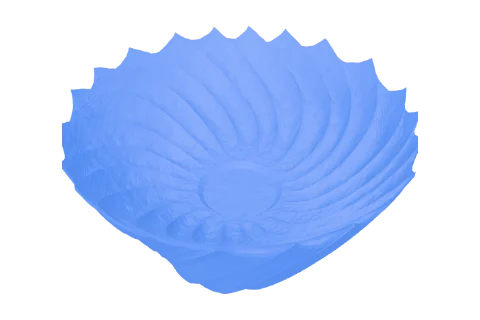
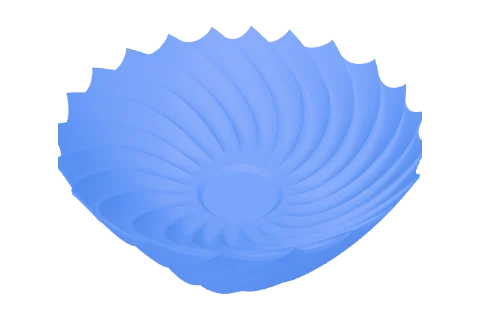
Revert "Ribbed dish: bumpy hand-worked surface, ribs that wander and vary"
This reverts commit 75d2445029df3fa1bae8ea616b1806c760d0f8a5.

diff --git a/src/dish.ts b/src/dish.ts
@@ -12,7 +12,6 @@
  * dish gets a flat foot with a 45° underside to the rim, a steep one becomes an even shell.
  */
 import type { ManifoldToplevel, Manifold, CrossSection, Vec2 } from 'manifold-3d';
-import { createNoise2D } from 'simplex-noise';
 
 export interface DishParams {
   /** Diameter across the rib points (mm). */
@@ -36,10 +35,6 @@ export interface DishParams {
   wall: number;
   floor: number;
   seed: number;
-  /** Bumpy hand-worked surface: bump height (mm). */
-  bumps: number;
-  /** Bumps on the middle floor too (not under a word). */
-  bumpWell: boolean;
   /** Points per rib around (sharpness / file size). */
   perRib?: number;
 }
@@ -93,13 +88,6 @@ export function buildDish(W: ManifoldToplevel, keep: <T extends { delete(): void
   const wob = Math.max(0, Math.min(1, dp.wobble));
   const swirl = (dp.swirl * Math.PI) / 180;
   const step = (2 * Math.PI) / n;
-  // ribs wander along their length, and are not all equally wide
-  const wanderA = wob * Math.min(0.45 * step, 0.12);
-  const kSp = Math.max(2, Math.round(n / 3));
-  const spaceA = (wob * 0.18) / kSp;
-  // bumpy surface (like hammered or hand-pressed clay): two sizes of smooth bumps + dents
-  const nA = createNoise2D(rng((dp.seed || 1) + 11)), nB = createNoise2D(rng((dp.seed || 1) + 23)), nC = createNoise2D(rng((dp.seed || 1) + 37));
-  const bump = (x: number, y: number) => dp.bumps * (0.55 * nA(x / 9, y / 9) + 0.3 * nB(x / 3.6, y / 3.6) + 0.15 * nC(x / 1.6, y / 1.6));
 
   // top surface, row by row (i) and column by column (j)
   const top = new Float64Array(NR * NT * 3);
@@ -113,8 +101,7 @@ export function buildDish(W: ManifoldToplevel, keep: <T extends { delete(): void
       const rho = rows[i];
       const s = rho <= rho1 ? 0 : (rho - rho1) / (1 - rho1); // 0 at the start of the ribs, 1 at the rim
       // columns turn with the swirl and wander a little (not enough to cross each other)
-      // (wander turns by at most ~0.46 per radian and uneven spacing by ~0.18, so columns never cross)
-      const th = t0 + swirl * s * s + wanderA * s * (0.6 * Math.sin(3 * t0 + 2.2 * Math.PI * s + ph[0]) + 0.4 * Math.sin(5 * t0 - 1.6 * Math.PI * s + ph[1])) + spaceA * Math.sin(kSp * t0 + ph[4]);
+      const th = t0 + swirl * s * s + wob * step * 0.3 * s * (0.6 * Math.sin(3 * t0 + 2.2 * Math.PI * s + ph[0]) + 0.4 * Math.sin(5 * t0 - 1.6 * Math.PI * s + ph[1]));
       const r = rho * R0 * (1 - dp.scallop * v * s * s);
       let z: number;
       if (rho <= w) z = floorZ;
@@ -122,19 +109,12 @@ export function buildDish(W: ManifoldToplevel, keep: <T extends { delete(): void
       else {
         z = floorZ + wd + (H - floorZ - wd) * Math.pow(s, 1.6);
         // hollows fade in from the well, deepest at the rim; never below the well step
-        const along = 1 + 0.35 * wob * nA(t0 * 2.5 + 40, s * 3);
-        const d = dp.depth * dMul * along * smooth(s / 0.35) * (0.45 + 0.55 * s);
+        const d = dp.depth * dMul * smooth(s / 0.35) * (0.45 + 0.55 * s);
         z = Math.max(floorZ + wd * 0.5, z - d * v);
       }
       const k = (i * NT + j) * 3;
-      const x = r * Math.cos(th), y = r * Math.sin(th);
-      // bumps everywhere on the bowl (a little less on the crests so they stay crisp), fading in from the well
-      if (dp.bumps > 0) {
-        const f = rho <= w ? (dp.bumpWell ? 0.6 * smooth((rho / w - 0.15) / 0.3) : 0) : rho <= rho1 ? (dp.bumpWell ? 0.6 : 0.3) : 0.45 + 0.55 * Math.max(0.35, v);
-        z += bump(x, y) * f;
-      }
-      top[k] = x;
-      top[k + 1] = y;
+      top[k] = r * Math.cos(th);
+      top[k + 1] = r * Math.sin(th);
       top[k + 2] = z;
     }
   }

diff --git a/src/geometry.ts b/src/geometry.ts
@@ -42,8 +42,6 @@ export interface Params extends LampParams, MoldParams, TileParams, TerraceParam
   dsCentre?: 'veins' | 'raised' | 'cut' | 'plain';
   dsRaise?: number;
   dsSeed?: number;
-  /** Ribbed dish: bumpy hand-worked surface, bump height (mm). */
-  dsBumps?: number;
   /** Ribbon sculpture shape. */
   scShape?: 'infinity' | 'trefoil' | 'lissajous' | 'twist';
   /** Ribbon sculpture: width across (mm). */
@@ -1768,7 +1766,7 @@ export class Builder {
       size, height: clampN(p.dsHeight ?? 32, 8, 150), ribs: clampN(p.dsRibs ?? 28, 8, 64), depth: clampN(p.dsDepth ?? 6, 0, 30),
       well: clampN(p.dsWell ?? 30, 10, 60) / 100, wellDepth: clampN(p.dsWellDepth ?? 3, 0, 20), scallop: clampN(p.dsScallop ?? 4, 0, 15) / 100,
       swirl: clampN(p.dsSwirl ?? 0, -120, 120), wobble: clampN(p.dsWobble ?? 50, 0, 100) / 100, wall: clampN(p.dsWall ?? 2.4, 1.2, 8),
-      floor: clampN(p.dsFloor ?? 3, 1.6, 10), seed: p.dsSeed ?? 1, bumps: clampN(p.dsBumps ?? 0.9, 0, 3), bumpWell: (p.dsCentre ?? 'veins') === 'veins' || p.dsCentre === 'plain', perRib: p.lampFine ? 24 : 16,
+      floor: clampN(p.dsFloor ?? 3, 1.6, 10), seed: p.dsSeed ?? 1, perRib: p.lampFine ? 24 : 16,
     }, warnings);
     let body = d.m;
     const centre = p.dsCentre ?? 'veins';
@@ -1776,9 +1774,7 @@ export class Builder {
     const parts: WorkPart[] = [];
     if (centre === 'veins') {
       const v = veins(W, (o) => this.k(o), d.wellR * 0.97, p.dsSeed ?? 1);
-      // sink the veins into the (bumpy) floor so they never hang over a dent
-      const sink = Math.min(d.floorZ - 0.2, clampN(p.dsBumps ?? 0.9, 0, 3) + OVERLAP);
-      body = this.k(body.add(this.extrude(v, raise + sink, d.floorZ - sink)));
+      body = this.k(body.add(this.extrude(v, raise + OVERLAP, d.floorZ - OVERLAP)));
     } else if ((centre === 'raised' || centre === 'cut') && !cs.isEmpty()) {
       // the word, centred and scaled to fit inside the well
       const b = cs.bounds();

diff --git a/scripts/dish-check.ts b/scripts/dish-check.ts
@@ -14,7 +14,7 @@ const cases = process.argv[2] ? [JSON.parse(process.argv[2])] : [{}, { dsHeight:
 let bad = 0;
 for (const c of cases) {
   const r = b.build(font, { ...DEFAULTS, style: 'dish', text: 'KEYS', ...c } as any);
-  let worst = 0, n = 0, area = 0;
+  let worst = 0, n = 0;
   for (const p of r.parts) {
     const P = p.positions, I = p.indices;
     for (let t = 0; t < I.length; t += 3) {
@@ -26,12 +26,11 @@ for (const c of cases) {
       const zMin = Math.min(P[a + 2], P[q + 2], P[w + 2]);
       if (zMin < 0.05) continue;
       const cz = nz / L; // −1 = facing straight down
-      if (cz < -Math.SQRT1_2 - 0.02) { n++; area += L / 2; worst = Math.min(worst, cz); if (process.env.WHERE) console.log(P[a], P[a + 1], P[a + 2], P[q + 2], P[w + 2], L / 2); }
+      if (cz < -Math.SQRT1_2 - 0.02) { n++; worst = Math.min(worst, cz); if (process.env.WHERE) console.log(P[a], P[a + 1], P[a + 2], P[q + 2], P[w + 2], L / 2); }
     }
   }
-  // a few specks (under 1 mm² in all) print fine
-  const ok = r.parts.length > 0 && area < 1;
+  const ok = r.parts.length > 0 && n === 0;
   if (!ok) bad++;
-  console.log(ok ? 'ok ' : 'BAD', JSON.stringify(c), `parts ${r.parts.length}`, n ? `${n} faces (${area.toFixed(2)} mm²) flatter than 45° (worst ${(Math.acos(-worst) * 180 / Math.PI).toFixed(1)}° from straight down)` : 'no overhangs');
+  console.log(ok ? 'ok ' : 'BAD', JSON.stringify(c), `parts ${r.parts.length}`, n ? `${n} faces flatter than 45° (worst ${(Math.acos(-worst) * 180 / Math.PI).toFixed(1)}° from straight down)` : 'no overhangs');
 }
 console.log(bad ? `${bad} problem(s)` : 'all clean');

diff --git a/src/main.ts b/src/main.ts
@@ -156,7 +156,6 @@ const STYLE_CONTROLS: Record<Style, Control[]> = {
     { kind: 'range', key: 'dsScallop', label: 'Pointed edge', min: 0, max: 12, step: 0.5, unit: '%', hint: 'How much the rim pulls in between the ribs.' },
     { kind: 'range', key: 'dsSwirl', label: 'Swirl', min: -90, max: 90, step: 5, unit: '°', hint: 'Turns the ribs as they go out.' },
     { kind: 'range', key: 'dsWobble', label: 'Hand-made look', min: 0, max: 100, step: 5, unit: '%', hint: 'Lets the ribs wander a little.' },
-    { kind: 'range', key: 'dsBumps', label: 'Bumpy surface', min: 0, max: 2.5, step: 0.1, unit: 'mm', hint: 'A hand-worked, hammered look. Catches dry-brush paint.' },
     { kind: 'range', key: 'dsSeed', label: 'Variation', min: 1, max: 99, step: 1, hint: 'Shuffles the wobble and the veins.' },
     { kind: 'heading', key: 'style', label: 'Middle' },
     { kind: 'select', key: 'dsCentre', label: 'Middle', options: [['veins', 'Veins'], ['raised', 'Raised word'], ['cut', 'Cut-in word'], ['plain', 'Plain']], hint: 'A word goes in the middle, as big as fits. Type it in the Words step.' },

diff --git a/src/defaults.ts b/src/defaults.ts
@@ -158,8 +158,7 @@ export const DEFAULTS: Params = {
   dsWellDepth: 3,
   dsScallop: 4,
   dsSwirl: 0,
-  dsWobble: 70,
-  dsBumps: 0.9,
+  dsWobble: 50,
   dsWall: 2.4,
   dsFloor: 3,
   dsCentre: 'veins',

diff --git a/CLAUDE.md b/CLAUDE.md
@@ -169,11 +169,6 @@ flatter than 45°, so NO supports (check: `npx tsx scripts/dish-check.ts`, must 
 Middle `dsCentre`: veins (seeded branching random walk, raised, merged into the dish), raised word
 (own part, colour B), cut-in word, plain. The word fills the well (capHeight ignored; size section
 hidden). Text steps (Words/Font) only show for the word middles (noText() is dynamic for dish).
-Organic (user: "we lost the organic texture… I need more bumpy texture"): `dsBumps` (mm, default
-0.9) = 3-octave simplex bumps on the top (a bit less on crests, also on the well floor for veins/plain;
-veins are sunk into the floor by the bump height so they never hang over a dent); ribs wander along
-their length, have uneven widths (angle warp, kept small enough that columns never cross) and
-uneven depth along their length (`dsWobble`, default 70).
 Paint tip shown as a note (user asked about painting: dry-brush black prints). Pictures: 3/4 view.
 
 ## Word stand (`Builder.standee`, user photo of a pink "THANK YOU FOR BEING YOU" desk piece; own design)
